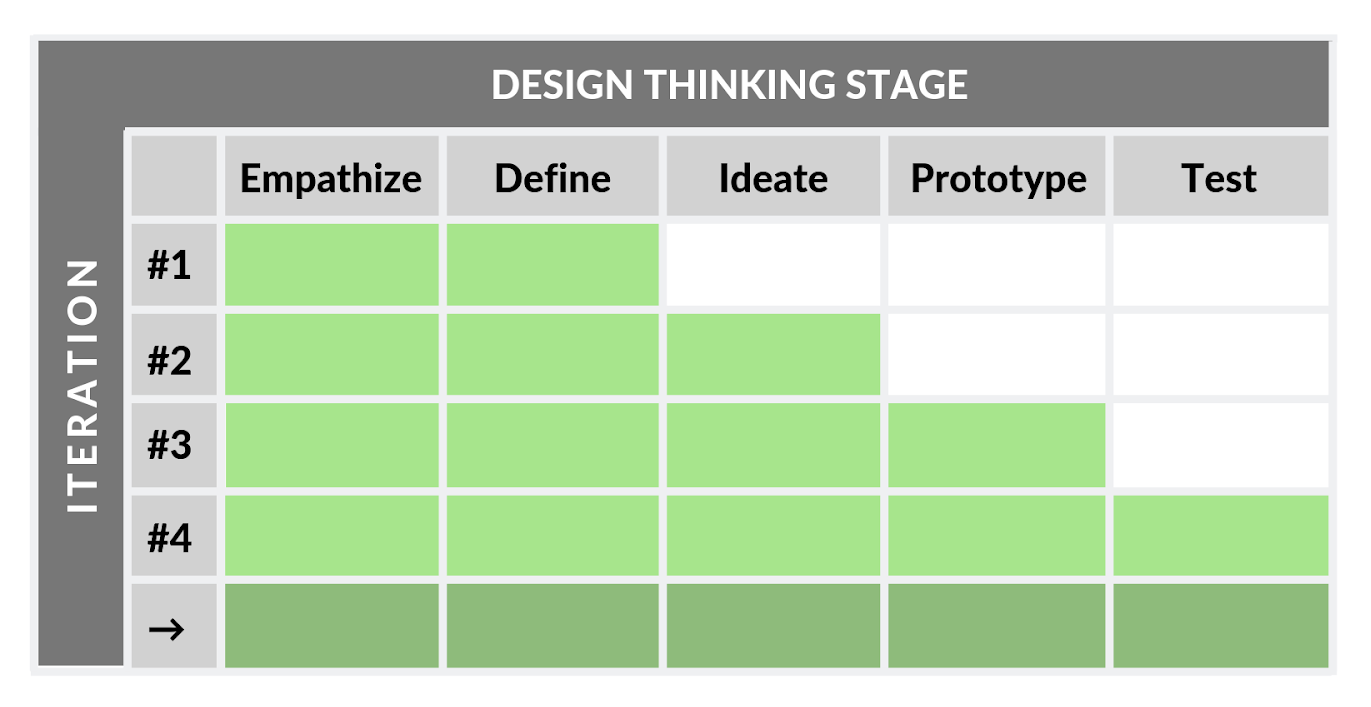
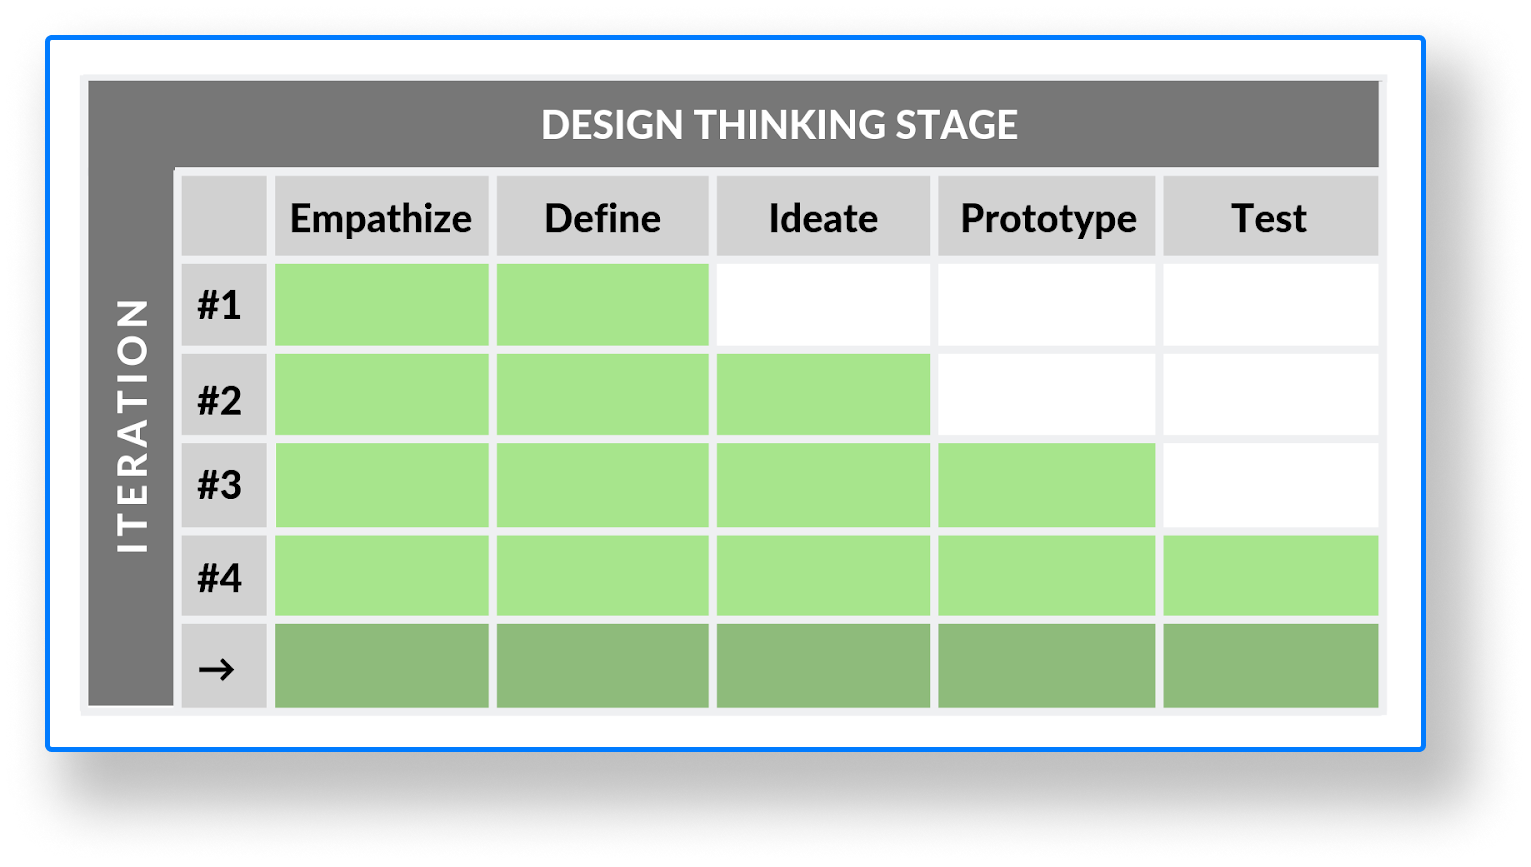
new images and corrections for BGN

diff --git a/_projects/boardgamenight.md b/_projects/boardgamenight.md
@@ -31,12 +31,12 @@ regular participants could benefit from additional guidance in regards to the bo
 {% include elements/figure.html image="https://raw.githubusercontent.com/dani763f/website/main/images/boardgamenight/storyboard1.png" caption="Storyboarding the desired experience" %}  
 
 ## The Solution  
+{% include elements/figure.html image="https://raw.githubusercontent.com/dani763f/website/main/images/boardgamenight/designthinking.png" caption="Amount of iterations in each step of the design thinking process" %}  
 
+{% include elements/figure.html image="https://raw.githubusercontent.com/dani763f/website/main/images/boardgamenight/lowfidelity.png" caption="An early stage low fidelity prototype" %}  
 
+{% include elements/figure.html image="https://raw.githubusercontent.com/dani763f/website/main/images/boardgamenight/process.png" caption="Process work" %}  
 
+{% include elements/figure.html image="https://raw.githubusercontent.com/dani763f/website/main/images/boardgamenight/prototype/tablet/prototype.png" caption="Prototype for tablets" %}  
 
-
-<br>
-![tablet](/website/images/boardgamenight/prototype/tablet/prototype.png)
-<br>
-![smartphone](/website/images/boardgamenight/prototype/smartphone/prototype.png)
+{% include elements/figure.html image="https://raw.githubusercontent.com/dani763f/website/main/images/boardgamenight/prototype/smartphone/prototype.png" caption="Prototype for smartphones" %}
